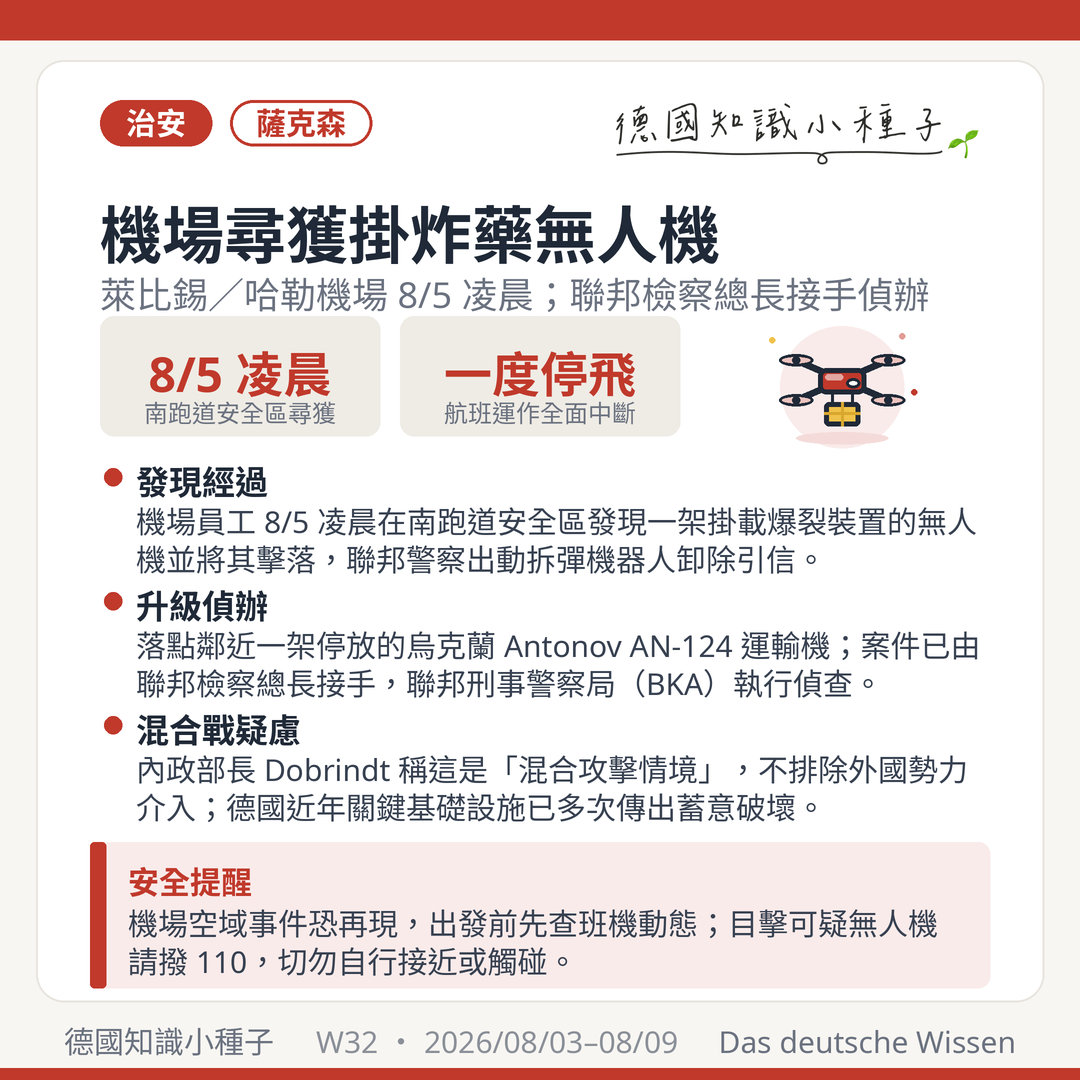
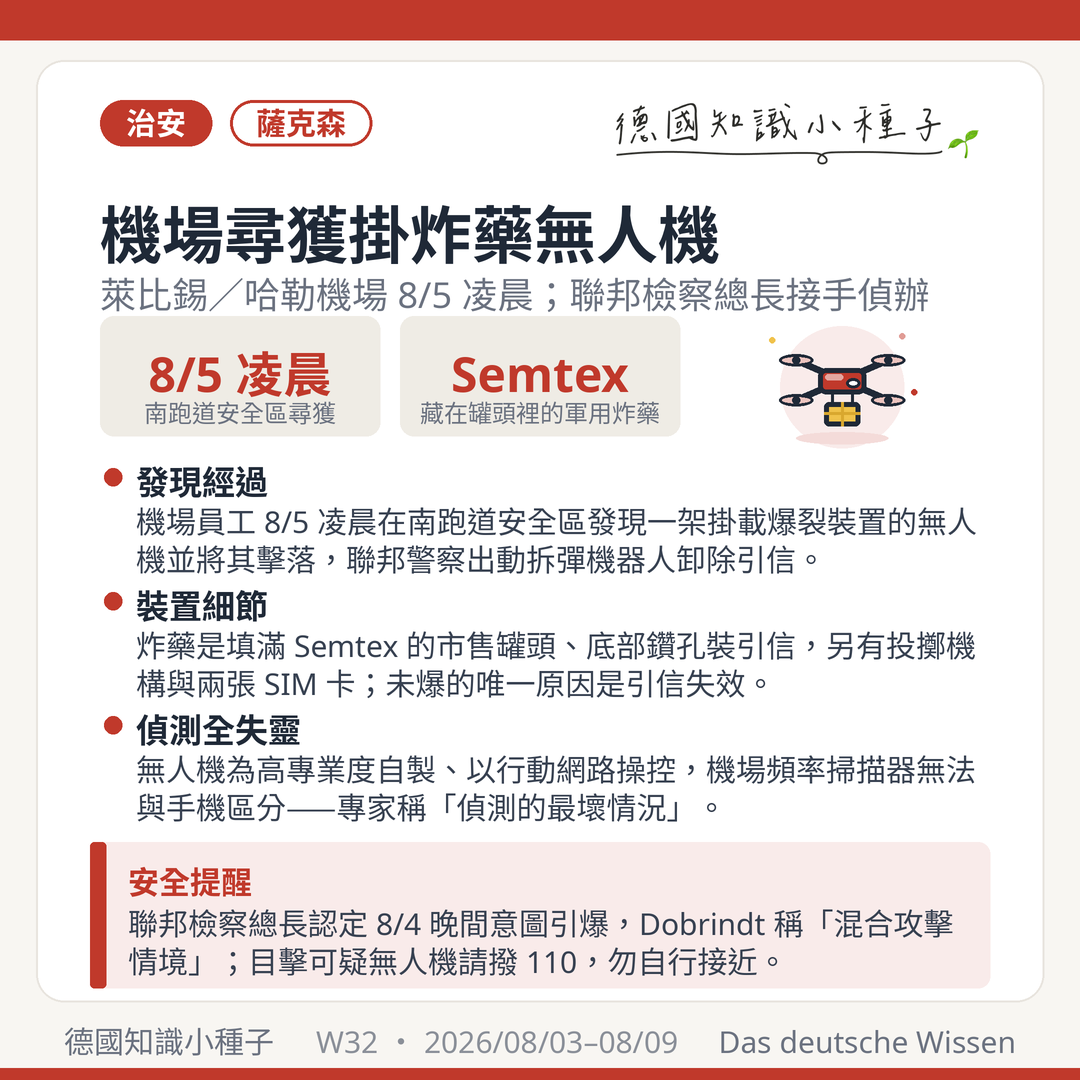
修正 Mecklenburg-Vorpommern 譯名為「梅克倫堡-佛波門」，並更新無人機與萊茵河兩題的最新事證
譯名更正（用戶指正）：
- 「前波美拉尼亞」是中國譯法，台灣譯名為「梅克倫堡-佛波門」（簡稱麥佛邦），
  依 zh-tw 維基與駐德代表處《德國常用地名翻譯對照表》為準
- 已修正圖卡 4、js/data.js、社群稿共 7 處；依指示不溯及既往修改 W30 舊段落
- CLAUDE.md 補記此紅線，避免再犯

新聞更新（本週後續事證）：
- 萊比錫機場無人機：爆裂物為填入軍用炸藥 Semtex 的市售罐頭、罐底鑽孔裝引信，
  未爆的唯一原因是引信失效；機體為高專業度自製、裝投擲機構與兩張 SIM 卡、
  以 LTE 行動網路遠端操控，且採標準偵測系統無法辨識的技術（機場頻率掃描器
  無法與手機區分，專家稱「偵測的最壞情況」）；聯邦檢察總長認定意圖於 8/4 晚間引爆
- 萊茵河：科隆數字更新 67 → 60 公分（8/7 凌晨，週四 63、舊紀錄 66），
  新增杜塞道夫 15 公分、埃默里希連日負值且浮筒乾擱、杜易斯堡同破紀錄——
  自科隆到荷蘭邊境全線改寫紀錄；補上考布 8/3→8/7 的下跌曲線與 1923 年基準測站背景
- 兩題各補 2–3 個新來源；重跑 build.js 與社群稿（IG 1,067 字元、dry-run 通過）

Claude-Session: https://claude.ai/code/session_01Bwoz83KCFjMQ9zDxmrsEQg

Changed region(s): [[0.1222, 0.55, 0.9167, 0.7639], [0.1222, 0.825, 0.8861, 0.9167], [0.3667, 0.3056, 0.6111, 0.3972]]

diff --git a/js/data.js b/js/data.js
@@ -522,7 +522,7 @@ const POSTS = [
     date: '2026-08-09',
     categories: ['德國時事'],
     tags: ['週報', '德國政策', '時事'],
-    excerpt: '萊比錫／哈勒機場 8/5 凌晨驚傳掛載爆裂裝置的無人機：員工在南跑道安全區發現後將其擊落，落點鄰近一架停放的烏克蘭 Antonov AN-124 運輸機，聯邦警察出動拆彈機器人卸除引信、航班一度全面中斷；案件由聯邦檢察總長接手、聯邦刑事警察局（BKA）偵辦，內政部長 Dobrindt 稱之為「混合攻擊情境」，不排除外國勢力介入。萊茵河水位跌破歷史紀錄：萊茵蘭-普法茲（Rheinland-Pfalz）羅蕾萊附近的考布（Kaub）測站僅剩 19 公分（兩週前尚有 50 公分以上），科隆（Köln）8/1 也以 67 公分創站史新低；貨船常只能裝到滿載的五分之一至三分之一，BASF 約四成產品仰賴萊茵河運輸、已加派淺水船，交通部長 Bilger 考慮暫解卡車假日禁行令，德國經濟研究所（IW）估久旱恐吃掉全年成長最多 0.4 個百分點。九月三場邦選舉倒數一個月：薩克森-安哈特（Sachsen-Anhalt）9/6 投票，INSA 民調 AfD 41%、CDU 24%、左翼黨 13%；梅克倫堡-前波美拉尼亞（Mecklenburg-Vorpommern／MV）與柏林 9/20 同日投票，MV 為 AfD 36%、SPD 29%、左翼黨 12%、CDU 僅 9%，柏林則是左翼黨 21%、CDU 19%、AfD 18%、綠黨 17% 的四黨混戰，CDU 由 Evers 接替因停電危機說法不實而退選的 Wegner 領軍。假訊息事件：一段題為「CDU 內部文件：Merz 8/10 辭職」的影片流竄，宣稱引自《商報》（Handelsblatt）取得的黨內通信並嵌入偽造的商報網頁，商報公開聲明手上沒有這份通信、也從未做過相關報導，並指網路上幾乎每天出現總理的假政策倡議。數位法規：EU AI 法第 50 條透明義務 8/2 全面適用，聊天機器人須表明身分、AI 生成內容須帶機器可讀標記、深偽與涉公共利益的 AI 文章須揭露，違者最高罰 1,500 萬歐元或全球年營收 3%；德國錯過歐盟 2025 年 8 月的機關指定期限，《AI 法施行法》遲至 7/29 才生效，由聯邦網路局（BNetzA）擔任中央市場監理機關。氣候與經濟：德國氣象局（DWD）七月均溫 19.7 度、高於 1961–1990 基準 2.8 度，雨量僅約每平方公尺 40 公升、不到基準值六成，乾旱已深入地下 1.8 公尺土層；Prognos 受聯邦勞動部委託的研究估算，每個 30 度以上高溫日讓德國經濟損失 4.31 億歐元、其中 97% 來自生產力下滑，氣溫每超過 30 度再升 1 度生產力就掉約 3%，每個高溫日並增加約 7.65 萬個病假日。經濟數據：Destatis 8/6 公布六月製造業實質訂單月增 3.1%、遠優於市場預期的 0.5%～0.7%，但扣除大額訂單後反而月減 0.5%；機械製造 +12.7%、資通訊與光學產品 +22.7%、汽車 +3.8%，國內訂單月增 7.8% 而國外僅增 0.2%——歐元區訂單大減 14.0%，全靠歐元區以外的 +10.2% 撐住。',
+    excerpt: '萊比錫／哈勒機場 8/5 凌晨驚傳掛載爆裂裝置的無人機：員工在南跑道安全區發現後將其擊落，落點鄰近一架停放的烏克蘭 Antonov AN-124 運輸機，聯邦警察出動拆彈機器人卸除引信、航班一度全面中斷；案件由聯邦檢察總長接手、聯邦刑事警察局（BKA）偵辦，內政部長 Dobrindt 稱之為「混合攻擊情境」，不排除外國勢力介入。本週稍晚披露的細節顯示，爆裂物是填入軍用炸藥 Semtex 的市售罐頭、罐底鑽孔裝引信，未爆的唯一原因是引信失效；無人機為高專業度自製、裝有投擲機構與兩張 SIM 卡、以 LTE 行動網路遠端操控，且採用標準偵測系統無法辨識的技術，機場頻率掃描器無法將其與手機區分，專家形容是「偵測的最壞情況」，聯邦檢察總長認定行為人意圖於 8/4 晚間引發爆炸。萊茵河水位跌破歷史紀錄：萊茵蘭-普法茲（Rheinland-Pfalz）羅蕾萊附近的考布（Kaub）測站僅剩 19 公分（兩週前尚有 50 公分以上），科隆（Köln）8/7 凌晨跌至 60 公分、杜塞道夫（Düsseldorf）15 公分，埃默里希（Emmerich）連日負值、測站浮筒乾擱河床，自科隆到埃默里希全線破紀錄；貨船常只能裝到滿載的五分之一至三分之一，BASF 約四成產品仰賴萊茵河運輸、已加派淺水船，交通部長 Bilger 考慮暫解卡車假日禁行令，德國經濟研究所（IW）估久旱恐吃掉全年成長最多 0.4 個百分點。九月三場邦選舉倒數一個月：薩克森-安哈特（Sachsen-Anhalt）9/6 投票，INSA 民調 AfD 41%、CDU 24%、左翼黨 13%；梅克倫堡-佛波門（Mecklenburg-Vorpommern／MV）與柏林 9/20 同日投票，MV 為 AfD 36%、SPD 29%、左翼黨 12%、CDU 僅 9%，柏林則是左翼黨 21%、CDU 19%、AfD 18%、綠黨 17% 的四黨混戰，CDU 由 Evers 接替因停電危機說法不實而退選的 Wegner 領軍。假訊息事件：一段題為「CDU 內部文件：Merz 8/10 辭職」的影片流竄，宣稱引自《商報》（Handelsblatt）取得的黨內通信並嵌入偽造的商報網頁，商報公開聲明手上沒有這份通信、也從未做過相關報導，並指網路上幾乎每天出現總理的假政策倡議。數位法規：EU AI 法第 50 條透明義務 8/2 全面適用，聊天機器人須表明身分、AI 生成內容須帶機器可讀標記、深偽與涉公共利益的 AI 文章須揭露，違者最高罰 1,500 萬歐元或全球年營收 3%；德國錯過歐盟 2025 年 8 月的機關指定期限，《AI 法施行法》遲至 7/29 才生效，由聯邦網路局（BNetzA）擔任中央市場監理機關。氣候與經濟：德國氣象局（DWD）七月均溫 19.7 度、高於 1961–1990 基準 2.8 度，雨量僅約每平方公尺 40 公升、不到基準值六成，乾旱已深入地下 1.8 公尺土層；Prognos 受聯邦勞動部委託的研究估算，每個 30 度以上高溫日讓德國經濟損失 4.31 億歐元、其中 97% 來自生產力下滑，氣溫每超過 30 度再升 1 度生產力就掉約 3%，每個高溫日並增加約 7.65 萬個病假日。經濟數據：Destatis 8/6 公布六月製造業實質訂單月增 3.1%、遠優於市場預期的 0.5%～0.7%，但扣除大額訂單後反而月減 0.5%；機械製造 +12.7%、資通訊與光學產品 +22.7%、汽車 +3.8%，國內訂單月增 7.8% 而國外僅增 0.2%——歐元區訂單大減 14.0%，全靠歐元區以外的 +10.2% 撐住。',
 
     emoji: '🌱',
     content: `
@@ -555,23 +555,23 @@ const POSTS = [
 
 <img src="assets/images/2026/weekly/W32_圖卡1_機場無人機炸彈.png" alt="萊比錫哈勒機場 8/5 凌晨尋獲掛載爆裂裝置無人機 南跑道 聯邦檢察總長接手 BKA 偵辦 Dobrindt 混合攻擊情境">
 <h3>機場尋獲掛爆裂物無人機：聯邦檢察總長以恐攻等級接手</h3>
-<p><strong>8 月 5 日凌晨，萊比錫／哈勒機場（Flughafen Leipzig/Halle）一名員工在南跑道旁的安全區發現一架掛載爆裂裝置的無人機</strong>，據安全單位消息，該名員工是<strong>以腳將無人機踢落地面</strong>；聯邦警察隨後出動拆彈機器人，由專業人員<strong>卸除引信</strong>。事件期間<strong>機場航班運作一度全面中斷</strong>，薩克森（Sachsen）邦刑事警察局（LKA）於當日中午正式證實「無人機上裝有爆裂裝置」。<strong>最敏感的是落點</strong>：無人機的位置<strong>鄰近一架停放中的烏克蘭 Antonov AN-124 大型運輸機</strong>——萊比錫／哈勒是歐洲重要的空運貨物樞紐，也是對烏軍援與人道物資的重要中轉點。<strong>偵辦層級迅速拉高</strong>：本案因重大性已由<strong>聯邦檢察總長（Generalbundesanwalt）接手</strong>，罪嫌為<strong>引爆爆裂物未遂與危害航空交通安全</strong>，警察偵查工作交由<strong>聯邦刑事警察局（BKA）</strong>執行；薩克森邦總檢察署（德勒斯登／Dresden）的極端主義中央辦公室與 LKA 的反恐與極端主義預防中心先前亦已投入。<strong>官方定性</strong>：內政部長 Dobrindt 將此事描述為<strong>「混合攻擊情境」（hybrides Angriffsszenario）</strong>，並表示不排除有<strong>外國勢力</strong>意圖在德國製造重大不安，這將是偵辦重點之一。所謂「混合攻擊」指的是不採取正面軍事衝突，而是透過破壞、經濟施壓與假訊息等手段製造不確定性——這也讓本週的另一則假影片事件（見下文）顯得不是巧合。<strong>脈絡</strong>：德國近年已多次傳出關鍵基礎設施遭蓄意破壞的案件，柏林軍工廠、巴伐利亞（Bayern）的美軍設施與萊比錫的物流樞紐都曾被列入調查。<strong>對讀者的實質意義</strong>：機場空域安全事件短期內恐再現，出發前先確認班機動態；若在機場、車站或關鍵設施周邊目擊可疑無人機，請直接撥打 110，切勿自行接近或觸碰。</p>
-<p class="post-sources">📚 來源：<a href="https://www.zdfheute.de/panorama/leipzig-flughafen-drohne-zwischenfall-100.html" target="_blank" rel="noopener noreferrer">ZDFheute｜LKA 證實無人機裝有爆裂裝置</a> · <a href="https://www.tagesspiegel.de/gesellschaft/panorama/suche-nach-zweitem-objekt-an-flughafen-leipzighalle-lauft-weiter-mitarbeiter-holte-sprengstoff-drohne-mit-fusstritt-aus-der-luft-15914691.html" target="_blank" rel="noopener noreferrer">Tagesspiegel｜員工以腳踢落無人機、續搜第二個物件</a> · <a href="https://www.t-online.de/nachrichten/deutschland/innenpolitik/id_101376382/leipzig-busfahrer-soll-drohne-mit-fusstritt-gestoppt-haben.html" target="_blank" rel="noopener noreferrer">t-online｜聯邦檢察總長接手、Dobrindt 稱混合攻擊情境</a></p>
+<p><strong>8 月 5 日凌晨，萊比錫／哈勒機場（Flughafen Leipzig/Halle）一名員工在南跑道旁的安全區發現一架掛載爆裂裝置的無人機</strong>，據安全單位消息，該名員工是<strong>以腳將無人機踢落地面</strong>；聯邦警察隨後出動拆彈機器人，由專業人員<strong>卸除引信</strong>。事件期間<strong>機場航班運作一度全面中斷</strong>，薩克森（Sachsen）邦刑事警察局（LKA）於當日中午正式證實「無人機上裝有爆裂裝置」。<strong>最敏感的是落點</strong>：無人機的位置<strong>鄰近一架停放中的烏克蘭 Antonov AN-124 大型運輸機</strong>——萊比錫／哈勒是歐洲重要的空運貨物樞紐，也是對烏軍援與人道物資的重要中轉點。<strong>偵辦層級迅速拉高</strong>：本案因重大性已由<strong>聯邦檢察總長（Generalbundesanwalt）接手</strong>，罪嫌為<strong>引爆爆裂物未遂與危害航空交通安全</strong>，警察偵查工作交由<strong>聯邦刑事警察局（BKA）</strong>執行；薩克森邦總檢察署（德勒斯登／Dresden）的極端主義中央辦公室與 LKA 的反恐與極端主義預防中心先前亦已投入。<strong>官方定性</strong>：內政部長 Dobrindt 將此事描述為<strong>「混合攻擊情境」（hybrides Angriffsszenario）</strong>，並表示不排除有<strong>外國勢力</strong>意圖在德國製造重大不安，這將是偵辦重點之一。所謂「混合攻擊」指的是不採取正面軍事衝突，而是透過破壞、經濟施壓與假訊息等手段製造不確定性——這也讓本週的另一則假影片事件（見下文）顯得不是巧合。<strong>本週稍晚披露的技術細節，讓這起事件的性質更加清楚</strong>：據偵辦方向外說明，<strong>爆裂物是一個市售食品罐頭——內容物被清空後填入軍用塑膠炸藥 Semtex 再重新封罐，罐底鑽孔以裝設引信</strong>；<strong>酬載之所以沒有爆炸，看來只是因為引信失效</strong>。無人機本身<strong>裝有投擲機構與兩張 SIM 卡</strong>，偵查人員正在釐清這兩張卡是否分別用於操控無人機與觸發投擲。更值得注意的是機體本身：<strong>它不是市售產品，而是以高度專業手法自製的無人機</strong>，<strong>透過 LTE 行動網路操控、可從很遠的距離遙控</strong>，並且採用了<strong>現行標準偵測系統無法辨識的技術</strong>——機場的頻率掃描器<strong>無法把這樣一架無人機與一支手機區分開來</strong>，機場既有的偵測系統顯然也沒有觸發。一位無人機專家形容，這是<strong>「偵測的最壞情況」</strong>。聯邦檢察總長辦公室並指出，有足夠的事實證據顯示<strong>行為人意圖在 2026 年 8 月 4 日晚間於萊比錫／哈勒機場引發爆炸</strong>。<strong>脈絡</strong>：德國近年已多次傳出關鍵基礎設施遭蓄意破壞的案件，柏林軍工廠、巴伐利亞（Bayern）的美軍設施與萊比錫的物流樞紐都曾被列入調查。<strong>對讀者的實質意義</strong>：機場空域安全事件短期內恐再現，出發前先確認班機動態；若在機場、車站或關鍵設施周邊目擊可疑無人機，請直接撥打 110，切勿自行接近或觸碰。</p>
+<p class="post-sources">📚 來源：<a href="https://www.zdfheute.de/panorama/leipzig-flughafen-drohne-zwischenfall-100.html" target="_blank" rel="noopener noreferrer">ZDFheute｜LKA 證實無人機裝有爆裂裝置</a> · <a href="https://www.tagesspiegel.de/gesellschaft/panorama/suche-nach-zweitem-objekt-an-flughafen-leipzighalle-lauft-weiter-mitarbeiter-holte-sprengstoff-drohne-mit-fusstritt-aus-der-luft-15914691.html" target="_blank" rel="noopener noreferrer">Tagesspiegel｜員工以腳踢落無人機、續搜第二個物件</a> · <a href="https://www.t-online.de/nachrichten/deutschland/innenpolitik/id_101376382/leipzig-busfahrer-soll-drohne-mit-fusstritt-gestoppt-haben.html" target="_blank" rel="noopener noreferrer">t-online｜聯邦檢察總長接手、Dobrindt 稱混合攻擊情境</a> · <a href="https://www.t-online.de/nachrichten/deutschland/id_101378890/flughafen-leipzig-halle-neue-details-zur-technik-der-sprengstoff-drohne.html" target="_blank" rel="noopener noreferrer">t-online｜炸藥無人機的技術細節</a> · <a href="https://de.euronews.com/my-europe/2026/08/07/sprengstoff-in-konservendose-neue-details-zum-drohnen-vorfall-in-leipzig" target="_blank" rel="noopener noreferrer">Euronews｜罐頭裝 Semtex 的新細節</a></p>
 
 <img src="assets/images/2026/weekly/W32_圖卡2_萊茵河水位新低.png" alt="萊茵河考布 Kaub 水位 19 公分 破紀錄新低 科隆 67 公分 內河航運 BASF 化工 IW 成長減損 0.4 個百分點">
 <h3>熱浪曬乾萊茵河：水位跌破歷史新低，航運剩五分之一載重</h3>
-<p><strong>先講因果：河水不是自己消失的。</strong>德國氣象局（DWD）7 月 30 日發布的月度總結顯示，<strong>2026 年七月全國均溫 19.7 度，比 1961–1990 年的國際基準期高出 2.8 度</strong>，且是<strong>連續第五個月日照時數高於平均</strong>（約 272 小時）。真正的關鍵在雨——<strong>七月全國降水僅約每平方公尺 40 公升，只比基準期（78 公升）的一半多一些</strong>；若對照更近期也更濕潤的 1991–2020 年基準（87 公升），缺口更為懸殊。溫度、降水與日照都呈現明顯的「西南－東北」梯度，西南部特別炎熱、乾燥且日照充足，<strong>薩爾蘭（Saarland）以約 350 小時日照創下當地有紀錄以來新高</strong>。長期少雨的結果是土壤含水量被抽乾——<strong>到七月初，乾旱已擴及幾乎全德、且深入地下 1.8 公尺的整個土壤剖面</strong>，這代表就算現在下雨，也得先「還債」給土壤，河川補水會嚴重滯後。DWD 在七月的總結中已明白記錄：<strong>萊茵河與多瑙河的水位測站出現七月份的歷史低點</strong>。八月的情況只有更糟。<strong>位於萊茵蘭-普法茲（Rheinland-Pfalz）羅蕾萊（Loreley）附近的考布（Kaub）測站，水位一路跌到僅剩 19 公分</strong>——本週稍早的 24 公分就已<strong>比 2018 年 10 月 22 日開始統計以來的最低紀錄再低 1 公分</strong>，而<strong>兩週前這裡的水位還在 50 公分以上</strong>，惡化速度驚人；聯邦水道管理機關的預報甚至指向<strong>週六可能再降到 17 公分</strong>。同一時間，<strong>科隆（Köln）8 月 1 日以 67 公分刷新站史新低，比 2018 年的紀錄低 2 公分</strong>。<strong>為什麼考布特別關鍵</strong>：該處是萊茵河的狹窄瓶頸段，水深直接決定整條航道的可通行載重；萊茵蘭-普法茲工商會（IHK）指出，<strong>水位低於 40 公分時「有意義的內河航運幾乎不可能」</strong>。目前<strong>貨船常常只能裝到滿載的五分之一至三分之一</strong>，等於同樣的運量要多跑好幾趟，物流成本大幅墊高。<strong>誰最痛</strong>：化工業。石腦油（Naphtha）、基礎化學品與工業原料大量倚賴河運直送廠區，<strong>BASF、Evonik、Covestro 的主力廠都直接坐落在萊茵河畔</strong>；以 BASF 為例，<strong>約四成產品透過這條水路進出</strong>，公司已加派吃水較淺的低水位船因應，Lanxess 則把部分運輸轉向鐵路與公路。<strong>政府端的應對</strong>：交通部長 Bilger 正考慮<strong>暫時鬆綁卡車的週日與假日禁行令</strong>，把水路的量能挪到公路以緩解供應缺口。<strong>總體衝擊有多大</strong>：德國經濟研究所（IW）經濟學家形容情勢「dramatisch（嚴峻）」，並估算<strong>萊茵河若長時間受限，恐讓全年經濟成長減少最多 0.4 個百分點</strong>——這幾乎會吃掉市場目前預期的整個復甦幅度（對照上週 Commerzbank 才把 2026 全年成長預測自 0.6% 上調至 1.0%）。<strong>對在德讀者的實質意義</strong>：河運吃緊會沿著供應鏈往下傳導，<strong>燃油、建材與部分民生用品的運費看漲</strong>；若近期有加油、囤暖氣油或裝修採購的規劃，提前處理比等待降價務實。此外持續乾旱也讓部分地方政府開始限制取水與戶外用水，外出郊遊請留意各邦的森林火災警戒等級。</p>
-<p class="post-sources">📚 來源：<a href="https://www.dwd.de/DE/presse/pressemitteilungen/DE/2026/20260730_deutschlandwetter_juli_news.html" target="_blank" rel="noopener noreferrer">DWD｜2026 年七月德國天氣總結</a> · <a href="https://www.nr-kurier.de/artikel/174108-rhein-verliert-wasser---pegel-kaub-meldet-nur-19-zentimeter" target="_blank" rel="noopener noreferrer">NR-Kurier｜考布水位僅 19 公分</a> · <a href="https://de.marketscreener.com/boerse-nachrichten/rhein-pegel-bei-kaub-auf-rekordtief-von-24-zentimetern-ce7f50dedb8af22c" target="_blank" rel="noopener noreferrer">MarketScreener｜考布跌破 2018 年紀錄</a> · <a href="https://www.wiwo.de/unternehmen/folgen-fuer-die-wirtschaft-niedrigwasser-am-rhein-iw-oekonom-haelt-lage-fuer-dramatisch/100245401.html" target="_blank" rel="noopener noreferrer">WirtschaftsWoche｜IW 經濟學家：情勢嚴峻，成長恐減 0.4 個百分點</a> · <a href="https://www.k-zeitung.de/niedrigwasser-deutschland-chemie-kunststoffindustrie" target="_blank" rel="noopener noreferrer">K-Zeitung｜低水位成化工與塑膠業風險</a></p>
+<p><strong>先講因果：河水不是自己消失的。</strong>德國氣象局（DWD）7 月 30 日發布的月度總結顯示，<strong>2026 年七月全國均溫 19.7 度，比 1961–1990 年的國際基準期高出 2.8 度</strong>，且是<strong>連續第五個月日照時數高於平均</strong>（約 272 小時）。真正的關鍵在雨——<strong>七月全國降水僅約每平方公尺 40 公升，只比基準期（78 公升）的一半多一些</strong>；若對照更近期也更濕潤的 1991–2020 年基準（87 公升），缺口更為懸殊。溫度、降水與日照都呈現明顯的「西南－東北」梯度，西南部特別炎熱、乾燥且日照充足，<strong>薩爾蘭（Saarland）以約 350 小時日照創下當地有紀錄以來新高</strong>。長期少雨的結果是土壤含水量被抽乾——<strong>到七月初，乾旱已擴及幾乎全德、且深入地下 1.8 公尺的整個土壤剖面</strong>，這代表就算現在下雨，也得先「還債」給土壤，河川補水會嚴重滯後。DWD 在七月的總結中已明白記錄：<strong>萊茵河與多瑙河的水位測站出現七月份的歷史低點</strong>。八月的情況只有更糟。<strong>位於萊茵蘭-普法茲（Rheinland-Pfalz）羅蕾萊（Loreley）附近的考布（Kaub）測站，水位在週五（8/7）跌到僅剩 19 公分</strong>——甚至低於聯邦水道管理機關前一日預報的 18 公分。這條下跌曲線相當陡：<strong>週一（8/3）的 24 公分就已比 2018 年 10 月 22 日開始統計以來的最低紀錄再低 1 公分</strong>，週二（8/4）單日低點來到 21 公分，而<strong>兩週前這裡的水位還在 50 公分以上</strong>；預報指向<strong>週六可能再降到約 17 公分</strong>。考布自 1923 年起就是萊茵河流量的基準測站。同一時間，<strong>下游災情同樣改寫紀錄</strong>：科隆（Köln）在本週稍早先跌破 66 公分的舊紀錄，週四（8/6）測得 63 公分，<strong>週五（8/7）凌晨再降至 60 公分</strong>；杜塞道夫（Düsseldorf）跌到 <strong>15 公分</strong>、遠低於數日前才創下的 20 公分紀錄；<strong>埃默里希（Emmerich）的水位已連日處於負值，測站浮筒乾擱在河床上、只能靠探針取得數據</strong>，杜易斯堡（Duisburg）與埃默里希雙雙低於歷史紀錄——換句話說，<strong>從科隆一路到荷蘭邊境的埃默里希，整段下萊茵河都在破紀錄</strong>。<strong>為什麼考布特別關鍵</strong>：該處是萊茵河的狹窄瓶頸段，水深直接決定整條航道的可通行載重；萊茵蘭-普法茲工商會（IHK）指出，<strong>水位低於 40 公分時「有意義的內河航運幾乎不可能」</strong>。目前<strong>貨船常常只能裝到滿載的五分之一至三分之一</strong>，等於同樣的運量要多跑好幾趟，物流成本大幅墊高。<strong>誰最痛</strong>：化工業。石腦油（Naphtha）、基礎化學品與工業原料大量倚賴河運直送廠區，<strong>BASF、Evonik、Covestro 的主力廠都直接坐落在萊茵河畔</strong>；以 BASF 為例，<strong>約四成產品透過這條水路進出</strong>，公司已加派吃水較淺的低水位船因應，Lanxess 則把部分運輸轉向鐵路與公路。<strong>政府端的應對</strong>：交通部長 Bilger 正考慮<strong>暫時鬆綁卡車的週日與假日禁行令</strong>，把水路的量能挪到公路以緩解供應缺口。<strong>總體衝擊有多大</strong>：德國經濟研究所（IW）經濟學家形容情勢「dramatisch（嚴峻）」，並估算<strong>萊茵河若長時間受限，恐讓全年經濟成長減少最多 0.4 個百分點</strong>——這幾乎會吃掉市場目前預期的整個復甦幅度（對照上週 Commerzbank 才把 2026 全年成長預測自 0.6% 上調至 1.0%）。<strong>對在德讀者的實質意義</strong>：河運吃緊會沿著供應鏈往下傳導，<strong>燃油、建材與部分民生用品的運費看漲</strong>；若近期有加油、囤暖氣油或裝修採購的規劃，提前處理比等待降價務實。此外持續乾旱也讓部分地方政府開始限制取水與戶外用水，外出郊遊請留意各邦的森林火災警戒等級。</p>
+<p class="post-sources">📚 來源：<a href="https://www.dwd.de/DE/presse/pressemitteilungen/DE/2026/20260730_deutschlandwetter_juli_news.html" target="_blank" rel="noopener noreferrer">DWD｜2026 年七月德國天氣總結</a> · <a href="https://www.nr-kurier.de/artikel/174108-rhein-verliert-wasser---pegel-kaub-meldet-nur-19-zentimeter" target="_blank" rel="noopener noreferrer">NR-Kurier｜考布水位僅 19 公分</a> · <a href="https://de.marketscreener.com/boerse-nachrichten/rhein-pegel-bei-kaub-auf-rekordtief-von-24-zentimetern-ce7f50dedb8af22c" target="_blank" rel="noopener noreferrer">MarketScreener｜考布跌破 2018 年紀錄</a> · <a href="https://www.wiwo.de/unternehmen/folgen-fuer-die-wirtschaft-niedrigwasser-am-rhein-iw-oekonom-haelt-lage-fuer-dramatisch/100245401.html" target="_blank" rel="noopener noreferrer">WirtschaftsWoche｜IW 經濟學家：情勢嚴峻，成長恐減 0.4 個百分點</a> · <a href="https://www.k-zeitung.de/niedrigwasser-deutschland-chemie-kunststoffindustrie" target="_blank" rel="noopener noreferrer">K-Zeitung｜低水位成化工與塑膠業風險</a> · <a href="https://koeln.t-online.de/region/koeln/id_101378406/rhein-pegel-am-freitag-rekordtief-bei-koeln-viel-niedriger-als-prognose.html" target="_blank" rel="noopener noreferrer">t-online 科隆｜8/7 科隆水位跌至 60 公分</a> · <a href="https://www.daswetter.com/nachrichten/aktuelles/rhein-niedrigwasser-rekordtiefs-von-koeln-bis-emmerich.html" target="_blank" rel="noopener noreferrer">daswetter｜科隆到埃默里希全線破紀錄</a></p>
 
 <img src="assets/images/2026/weekly/W32_圖卡3_高溫經濟衝擊.png" alt="高溫經濟衝擊 每個高溫日 4.31 億歐元 生產力下降 3% 每度 7.65 萬病假日 ASR A3.5 職場溫度規範">
 <h3>高溫的經濟帳：每個高溫日 4.31 億歐元，97% 來自生產力下滑</h3>
 <p>熱浪的代價不只寫在河床上。<strong>聯邦勞動及社會部（BMAS）委託研究機構 Prognos 進行的「氣候變遷下的勞動保護」研究</strong>，把「熱」換算成了具體的金額：<strong>一個氣溫達 30 度以上的高溫日，就讓德國經濟少掉約 4.31 億歐元</strong>，而且<strong>這些成本有 97% 來自生產力損失</strong>，而非設備或財產損害。<strong>降幅有多陡</strong>：研究指出<strong>氣溫每超過 30 度再上升 1 度，生產力就下降約 3%</strong>——這個斜率意味著 35 度的一天，效率折損遠不是「有點熱、大家慢一點」可以形容。<strong>健康成本另計</strong>：因中暑等熱相關疾病與高溫下的工安事故，<strong>每個高溫日估計額外產生約 7.65 萬個病假日</strong>。<strong>把時間拉長看</strong>：信用保險公司 Allianz Trade 的分析估計，<strong>2026 至 2030 年間德國因極端高溫累積的經濟損失可達約 1,310 億美元</strong>，未來四年 GDP 的折損幅度<strong>上看 3%</strong>。<strong>為什麼工業特別痛</strong>：高溫對製造業是「兩頭夾擊」——一頭是產線本身，車間降溫需求推升電力與冷卻成本、機具與人員效率同步下滑；另一頭正是上一則講的乾旱，河運受阻讓原料進不來、成品出不去。<strong>換句話說，本週萊茵河的新聞與工業訂單的新聞，其實是同一個氣候問題的兩個切面。</strong>對照本週稍早公布、扣除大單後轉負的六月訂單數據，德國工業今年面對的並不只是需求端的疲弱。<strong>勞權面：德國沒有法定「高溫假」</strong>——這是每年夏天最常被誤解的一點。德國法律並未賦予勞工因高溫而放假的權利，<strong>但雇主有明確的作為義務</strong>：依《職場規則》ASR A3.5，<strong>室溫超過 26 度時雇主「應」採取措施、超過 30 度時「必須」採取有效措施（如遮陽、調整工時、提供飲水、放寬服裝規定）、超過 35 度時該空間在無額外降溫措施下即「不得作為工作場所」</strong>。在德工作的讀者若辦公或作業環境長時間逾 30 度而雇主毫無作為，可先向主管或員工代表會（Betriebsrat）反映，必要時可向邦級勞動保護主管機關（Gewerbeaufsicht／Amt für Arbeitsschutz）申訴。</p>
 <p class="post-sources">📚 來源：<a href="https://www.dwd.de/DE/presse/pressemitteilungen/DE/2026/20260730_deutschlandwetter_juli_news.html" target="_blank" rel="noopener noreferrer">DWD｜2026 年七月德國天氣總結</a> · <a href="https://www.prognos.com/de/projekt/arbeitsschutz-klimawandel-hitze-wirtschaft" target="_blank" rel="noopener noreferrer">Prognos｜氣候變遷下的勞動保護（BMAS 委託）</a> · <a href="https://www.cleanthinking.de/hitzekosten-arbeit-prognos-studie-2026/" target="_blank" rel="noopener noreferrer">Cleanthinking｜高溫成本每日 4.31 億歐元</a> · <a href="https://www.allianz-trade.de/presse/pressemitteilungen/extreme-hitze-kostet-deutschland-milliarden-und-laehmt-wirtschaftswachstum.html" target="_blank" rel="noopener noreferrer">Allianz Trade｜極端高溫的數十億損失</a> · <a href="https://www.zdfheute.de/wirtschaft/hitzewelle-hitze-deutschland-wirtschaft-folgen-100.html" target="_blank" rel="noopener noreferrer">ZDFheute｜熱浪為何讓企業損失數十億</a> · <a href="https://www.baua.de/DE/Angebote/Regelwerk/ASR/pdf/ASR-A3-5.pdf?__blob=publicationFile" target="_blank" rel="noopener noreferrer">BAuA｜ASR A3.5 室內溫度規則（PDF）</a></p>
 
-<img src="assets/images/2026/weekly/W32_圖卡4_九月三場邦選舉.png" alt="2026 九月三場邦選舉 薩克森-安哈特 9/6 AfD 41% 柏林 梅克倫堡-前波美拉尼亞 9/20 民調 防火牆">
+<img src="assets/images/2026/weekly/W32_圖卡4_九月三場邦選舉.png" alt="2026 九月三場邦選舉 薩克森-安哈特 9/6 AfD 41% 柏林 梅克倫堡-佛波門 9/20 民調 防火牆">
 <h3>九月三場邦選舉倒數一個月：AfD 在東部大幅領先，柏林四黨混戰</h3>
-<p>距離九月的邦議會選舉剩下約一個月，三場選舉的態勢已相當清楚。<strong>薩克森-安哈特（Sachsen-Anhalt）9 月 6 日投票</strong>，是三場中最早、也是差距最懸殊的一場：INSA 為《Focus Online》所做的民調顯示，<strong>AfD 在頭號候選人 Ulrich Siegmund 帶領下拿到 41%、CDU 24%、左翼黨 13%、SPD 7%、綠黨 5%、BSW 4%</strong>，AfD 領先幅度<strong>超過 15 個百分點</strong>。值得一提的是，該邦執政 15 年的 CDU 籍邦總理 Reiner Haseloff 已於 2025 年夏天宣布不再參選，<strong>今年 1 月底提前交棒給黨內同志 Sven Schulze</strong>，Schulze 以 91% 的高票獲提名為頭號候選人，如今得在民調逆風中捍衛執政權。<strong>梅克倫堡-前波美拉尼亞（Mecklenburg-Vorpommern／MV）與柏林同於 9 月 20 日投票</strong>。MV 方面，Infratest dimap 為 NDR 所做的民調中<strong>AfD 36%、SPD（現任邦總理 Manuela Schwesig）29%、左翼黨 12%、CDU 僅 9%、綠黨 5% 在門檻邊緣掙扎</strong>；不過關鍵在席次算術——<strong>SPD、左翼黨與綠黨三黨若聯手，仍可能在新議會取得極其微弱的過半</strong>，也就是說 AfD 即使拿下第一大黨，未必能組閣。<strong>柏林則是完全開放的四黨混戰</strong>：Civey 為《Tagesspiegel》所做的最新民調顯示<strong>左翼黨 21%（較 7 月初再增 2 個百分點）、CDU 19%、AfD 18%（+1）、綠黨 17%、SPD 12%（-1）</strong>，FDP 與 BSW 各 3%、雙雙落在議會門檻之外。<strong>柏林 CDU 換將</strong>：現任市長 Kai Wegner 在今年 1 月柏林大停電期間，對外造成「曾多次與總理 Merz 通話」的印象，但總理府事後說明<strong>停電期間 Merz 並未與 Wegner 進行過任何當面或電話的個人談話</strong>，Wegner 因此以「柏林比任何個人都重要」為由退出頭號候選人之爭，改由現年 46 歲、4 月起出任財政參議員的 <strong>Stefan Evers</strong> 領軍並接任市黨部主席——但從民調看，<strong>換將並未替 CDU 帶來反彈，該黨仍停在 19%</strong>。<strong>觀察重點</strong>：這三場選舉將是對聯盟黨（CDU/CSU）與 AfD 之間「防火牆」（Brandmauer）最直接的壓力測試；一旦 AfD 在東部拿下第一大黨而各黨仍拒絕合作，組閣談判勢必冗長，也會回頭牽動 Merz 政府在秋季的施政能量與黨內對其領導的評價。</p>
-<p class="post-sources">📚 來源：<a href="https://de.euronews.com/my-europe/2026/08/06/landtagswahlen-2026-umfragen-afd-themen-ueberblick" target="_blank" rel="noopener noreferrer">Euronews｜三場邦選舉一個月前的總覽</a> · <a href="https://www.t-online.de/nachrichten/deutschland/innenpolitik/id_101371622/sachsen-anhalt-wahl-2026-wahlumfrage-zeigt-einen-trend-parteien-zittern.html" target="_blank" rel="noopener noreferrer">t-online｜薩克森-安哈特 INSA 民調</a> · <a href="https://www.t-online.de/nachrichten/deutschland/innenpolitik/id_101372134/mv-wahl-2026-wahlumfrage-zeigt-einen-klaren-trend-schwesigs-spd-bangt.html" target="_blank" rel="noopener noreferrer">t-online｜梅克倫堡-前波美拉尼亞民調</a> · <a href="https://www.tagesspiegel.de/berlin/umfrage-zur-berlin-wahl-linke-springt-auf-platz-eins--wegner-ruckzug-nutzt-cdu-nicht-15913067.html" target="_blank" rel="noopener noreferrer">Tagesspiegel｜柏林民調：左翼黨躍居第一</a> · <a href="https://www.cdulsa.de/artikel/sven-schulze-zum-spitzenkandidaten-der-cdu-sachsen-anhalt-gewaehlt" target="_blank" rel="noopener noreferrer">CDU Sachsen-Anhalt｜Schulze 獲選頭號候選人</a></p>
+<p>距離九月的邦議會選舉剩下約一個月，三場選舉的態勢已相當清楚。<strong>薩克森-安哈特（Sachsen-Anhalt）9 月 6 日投票</strong>，是三場中最早、也是差距最懸殊的一場：INSA 為《Focus Online》所做的民調顯示，<strong>AfD 在頭號候選人 Ulrich Siegmund 帶領下拿到 41%、CDU 24%、左翼黨 13%、SPD 7%、綠黨 5%、BSW 4%</strong>，AfD 領先幅度<strong>超過 15 個百分點</strong>。值得一提的是，該邦執政 15 年的 CDU 籍邦總理 Reiner Haseloff 已於 2025 年夏天宣布不再參選，<strong>今年 1 月底提前交棒給黨內同志 Sven Schulze</strong>，Schulze 以 91% 的高票獲提名為頭號候選人，如今得在民調逆風中捍衛執政權。<strong>梅克倫堡-佛波門（Mecklenburg-Vorpommern／MV）與柏林同於 9 月 20 日投票</strong>。MV 方面，Infratest dimap 為 NDR 所做的民調中<strong>AfD 36%、SPD（現任邦總理 Manuela Schwesig）29%、左翼黨 12%、CDU 僅 9%、綠黨 5% 在門檻邊緣掙扎</strong>；不過關鍵在席次算術——<strong>SPD、左翼黨與綠黨三黨若聯手，仍可能在新議會取得極其微弱的過半</strong>，也就是說 AfD 即使拿下第一大黨，未必能組閣。<strong>柏林則是完全開放的四黨混戰</strong>：Civey 為《Tagesspiegel》所做的最新民調顯示<strong>左翼黨 21%（較 7 月初再增 2 個百分點）、CDU 19%、AfD 18%（+1）、綠黨 17%、SPD 12%（-1）</strong>，FDP 與 BSW 各 3%、雙雙落在議會門檻之外。<strong>柏林 CDU 換將</strong>：現任市長 Kai Wegner 在今年 1 月柏林大停電期間，對外造成「曾多次與總理 Merz 通話」的印象，但總理府事後說明<strong>停電期間 Merz 並未與 Wegner 進行過任何當面或電話的個人談話</strong>，Wegner 因此以「柏林比任何個人都重要」為由退出頭號候選人之爭，改由現年 46 歲、4 月起出任財政參議員的 <strong>Stefan Evers</strong> 領軍並接任市黨部主席——但從民調看，<strong>換將並未替 CDU 帶來反彈，該黨仍停在 19%</strong>。<strong>觀察重點</strong>：這三場選舉將是對聯盟黨（CDU/CSU）與 AfD 之間「防火牆」（Brandmauer）最直接的壓力測試；一旦 AfD 在東部拿下第一大黨而各黨仍拒絕合作，組閣談判勢必冗長，也會回頭牽動 Merz 政府在秋季的施政能量與黨內對其領導的評價。</p>
+<p class="post-sources">📚 來源：<a href="https://de.euronews.com/my-europe/2026/08/06/landtagswahlen-2026-umfragen-afd-themen-ueberblick" target="_blank" rel="noopener noreferrer">Euronews｜三場邦選舉一個月前的總覽</a> · <a href="https://www.t-online.de/nachrichten/deutschland/innenpolitik/id_101371622/sachsen-anhalt-wahl-2026-wahlumfrage-zeigt-einen-trend-parteien-zittern.html" target="_blank" rel="noopener noreferrer">t-online｜薩克森-安哈特 INSA 民調</a> · <a href="https://www.t-online.de/nachrichten/deutschland/innenpolitik/id_101372134/mv-wahl-2026-wahlumfrage-zeigt-einen-klaren-trend-schwesigs-spd-bangt.html" target="_blank" rel="noopener noreferrer">t-online｜梅克倫堡-佛波門民調</a> · <a href="https://www.tagesspiegel.de/berlin/umfrage-zur-berlin-wahl-linke-springt-auf-platz-eins--wegner-ruckzug-nutzt-cdu-nicht-15913067.html" target="_blank" rel="noopener noreferrer">Tagesspiegel｜柏林民調：左翼黨躍居第一</a> · <a href="https://www.cdulsa.de/artikel/sven-schulze-zum-spitzenkandidaten-der-cdu-sachsen-anhalt-gewaehlt" target="_blank" rel="noopener noreferrer">CDU Sachsen-Anhalt｜Schulze 獲選頭號候選人</a></p>
 
 <img src="assets/images/2026/weekly/W32_圖卡5_假Merz辭職影片.png" alt="假 Merz 8/10 辭職影片 深偽 假訊息 商報 Handelsblatt 出面澄清 偽造網頁 EU AI 標示義務">
 <h3>假「Merz 8/10 辭職」影片流竄：《商報》出面打假</h3>

diff --git a/posts/weekly-digest.html b/posts/weekly-digest.html
@@ -133,7 +133,7 @@
     <div class="post-header__meta">
       <span>2026年8月9日 發布</span>
       <span class="post-header__sep">·</span>
-      <span>188 分鐘閱讀</span>
+      <span>190 分鐘閱讀</span>
     </div>
     <hr class="post-header__divider" />
   </header>
@@ -166,23 +166,23 @@
 
 <img src="/assets/images/2026/weekly/W32_圖卡1_機場無人機炸彈.png" alt="萊比錫哈勒機場 8/5 凌晨尋獲掛載爆裂裝置無人機 南跑道 聯邦檢察總長接手 BKA 偵辦 Dobrindt 混合攻擊情境">
 <h3>機場尋獲掛爆裂物無人機：聯邦檢察總長以恐攻等級接手</h3>
-<p><strong>8 月 5 日凌晨，萊比錫／哈勒機場（Flughafen Leipzig/Halle）一名員工在南跑道旁的安全區發現一架掛載爆裂裝置的無人機</strong>，據安全單位消息，該名員工是<strong>以腳將無人機踢落地面</strong>；聯邦警察隨後出動拆彈機器人，由專業人員<strong>卸除引信</strong>。事件期間<strong>機場航班運作一度全面中斷</strong>，薩克森（Sachsen）邦刑事警察局（LKA）於當日中午正式證實「無人機上裝有爆裂裝置」。<strong>最敏感的是落點</strong>：無人機的位置<strong>鄰近一架停放中的烏克蘭 Antonov AN-124 大型運輸機</strong>——萊比錫／哈勒是歐洲重要的空運貨物樞紐，也是對烏軍援與人道物資的重要中轉點。<strong>偵辦層級迅速拉高</strong>：本案因重大性已由<strong>聯邦檢察總長（Generalbundesanwalt）接手</strong>，罪嫌為<strong>引爆爆裂物未遂與危害航空交通安全</strong>，警察偵查工作交由<strong>聯邦刑事警察局（BKA）</strong>執行；薩克森邦總檢察署（德勒斯登／Dresden）的極端主義中央辦公室與 LKA 的反恐與極端主義預防中心先前亦已投入。<strong>官方定性</strong>：內政部長 Dobrindt 將此事描述為<strong>「混合攻擊情境」（hybrides Angriffsszenario）</strong>，並表示不排除有<strong>外國勢力</strong>意圖在德國製造重大不安，這將是偵辦重點之一。所謂「混合攻擊」指的是不採取正面軍事衝突，而是透過破壞、經濟施壓與假訊息等手段製造不確定性——這也讓本週的另一則假影片事件（見下文）顯得不是巧合。<strong>脈絡</strong>：德國近年已多次傳出關鍵基礎設施遭蓄意破壞的案件，柏林軍工廠、巴伐利亞（Bayern）的美軍設施與萊比錫的物流樞紐都曾被列入調查。<strong>對讀者的實質意義</strong>：機場空域安全事件短期內恐再現，出發前先確認班機動態；若在機場、車站或關鍵設施周邊目擊可疑無人機，請直接撥打 110，切勿自行接近或觸碰。</p>
-<p class="post-sources">📚 來源：<a href="https://www.zdfheute.de/panorama/leipzig-flughafen-drohne-zwischenfall-100.html" target="_blank" rel="noopener noreferrer">ZDFheute｜LKA 證實無人機裝有爆裂裝置</a> · <a href="https://www.tagesspiegel.de/gesellschaft/panorama/suche-nach-zweitem-objekt-an-flughafen-leipzighalle-lauft-weiter-mitarbeiter-holte-sprengstoff-drohne-mit-fusstritt-aus-der-luft-15914691.html" target="_blank" rel="noopener noreferrer">Tagesspiegel｜員工以腳踢落無人機、續搜第二個物件</a> · <a href="https://www.t-online.de/nachrichten/deutschland/innenpolitik/id_101376382/leipzig-busfahrer-soll-drohne-mit-fusstritt-gestoppt-haben.html" target="_blank" rel="noopener noreferrer">t-online｜聯邦檢察總長接手、Dobrindt 稱混合攻擊情境</a></p>
+<p><strong>8 月 5 日凌晨，萊比錫／哈勒機場（Flughafen Leipzig/Halle）一名員工在南跑道旁的安全區發現一架掛載爆裂裝置的無人機</strong>，據安全單位消息，該名員工是<strong>以腳將無人機踢落地面</strong>；聯邦警察隨後出動拆彈機器人，由專業人員<strong>卸除引信</strong>。事件期間<strong>機場航班運作一度全面中斷</strong>，薩克森（Sachsen）邦刑事警察局（LKA）於當日中午正式證實「無人機上裝有爆裂裝置」。<strong>最敏感的是落點</strong>：無人機的位置<strong>鄰近一架停放中的烏克蘭 Antonov AN-124 大型運輸機</strong>——萊比錫／哈勒是歐洲重要的空運貨物樞紐，也是對烏軍援與人道物資的重要中轉點。<strong>偵辦層級迅速拉高</strong>：本案因重大性已由<strong>聯邦檢察總長（Generalbundesanwalt）接手</strong>，罪嫌為<strong>引爆爆裂物未遂與危害航空交通安全</strong>，警察偵查工作交由<strong>聯邦刑事警察局（BKA）</strong>執行；薩克森邦總檢察署（德勒斯登／Dresden）的極端主義中央辦公室與 LKA 的反恐與極端主義預防中心先前亦已投入。<strong>官方定性</strong>：內政部長 Dobrindt 將此事描述為<strong>「混合攻擊情境」（hybrides Angriffsszenario）</strong>，並表示不排除有<strong>外國勢力</strong>意圖在德國製造重大不安，這將是偵辦重點之一。所謂「混合攻擊」指的是不採取正面軍事衝突，而是透過破壞、經濟施壓與假訊息等手段製造不確定性——這也讓本週的另一則假影片事件（見下文）顯得不是巧合。<strong>本週稍晚披露的技術細節，讓這起事件的性質更加清楚</strong>：據偵辦方向外說明，<strong>爆裂物是一個市售食品罐頭——內容物被清空後填入軍用塑膠炸藥 Semtex 再重新封罐，罐底鑽孔以裝設引信</strong>；<strong>酬載之所以沒有爆炸，看來只是因為引信失效</strong>。無人機本身<strong>裝有投擲機構與兩張 SIM 卡</strong>，偵查人員正在釐清這兩張卡是否分別用於操控無人機與觸發投擲。更值得注意的是機體本身：<strong>它不是市售產品，而是以高度專業手法自製的無人機</strong>，<strong>透過 LTE 行動網路操控、可從很遠的距離遙控</strong>，並且採用了<strong>現行標準偵測系統無法辨識的技術</strong>——機場的頻率掃描器<strong>無法把這樣一架無人機與一支手機區分開來</strong>，機場既有的偵測系統顯然也沒有觸發。一位無人機專家形容，這是<strong>「偵測的最壞情況」</strong>。聯邦檢察總長辦公室並指出，有足夠的事實證據顯示<strong>行為人意圖在 2026 年 8 月 4 日晚間於萊比錫／哈勒機場引發爆炸</strong>。<strong>脈絡</strong>：德國近年已多次傳出關鍵基礎設施遭蓄意破壞的案件，柏林軍工廠、巴伐利亞（Bayern）的美軍設施與萊比錫的物流樞紐都曾被列入調查。<strong>對讀者的實質意義</strong>：機場空域安全事件短期內恐再現，出發前先確認班機動態；若在機場、車站或關鍵設施周邊目擊可疑無人機，請直接撥打 110，切勿自行接近或觸碰。</p>
+<p class="post-sources">📚 來源：<a href="https://www.zdfheute.de/panorama/leipzig-flughafen-drohne-zwischenfall-100.html" target="_blank" rel="noopener noreferrer">ZDFheute｜LKA 證實無人機裝有爆裂裝置</a> · <a href="https://www.tagesspiegel.de/gesellschaft/panorama/suche-nach-zweitem-objekt-an-flughafen-leipzighalle-lauft-weiter-mitarbeiter-holte-sprengstoff-drohne-mit-fusstritt-aus-der-luft-15914691.html" target="_blank" rel="noopener noreferrer">Tagesspiegel｜員工以腳踢落無人機、續搜第二個物件</a> · <a href="https://www.t-online.de/nachrichten/deutschland/innenpolitik/id_101376382/leipzig-busfahrer-soll-drohne-mit-fusstritt-gestoppt-haben.html" target="_blank" rel="noopener noreferrer">t-online｜聯邦檢察總長接手、Dobrindt 稱混合攻擊情境</a> · <a href="https://www.t-online.de/nachrichten/deutschland/id_101378890/flughafen-leipzig-halle-neue-details-zur-technik-der-sprengstoff-drohne.html" target="_blank" rel="noopener noreferrer">t-online｜炸藥無人機的技術細節</a> · <a href="https://de.euronews.com/my-europe/2026/08/07/sprengstoff-in-konservendose-neue-details-zum-drohnen-vorfall-in-leipzig" target="_blank" rel="noopener noreferrer">Euronews｜罐頭裝 Semtex 的新細節</a></p>
 
 <img src="/assets/images/2026/weekly/W32_圖卡2_萊茵河水位新低.png" alt="萊茵河考布 Kaub 水位 19 公分 破紀錄新低 科隆 67 公分 內河航運 BASF 化工 IW 成長減損 0.4 個百分點">
 <h3>熱浪曬乾萊茵河：水位跌破歷史新低，航運剩五分之一載重</h3>
-<p><strong>先講因果：河水不是自己消失的。</strong>德國氣象局（DWD）7 月 30 日發布的月度總結顯示，<strong>2026 年七月全國均溫 19.7 度，比 1961–1990 年的國際基準期高出 2.8 度</strong>，且是<strong>連續第五個月日照時數高於平均</strong>（約 272 小時）。真正的關鍵在雨——<strong>七月全國降水僅約每平方公尺 40 公升，只比基準期（78 公升）的一半多一些</strong>；若對照更近期也更濕潤的 1991–2020 年基準（87 公升），缺口更為懸殊。溫度、降水與日照都呈現明顯的「西南－東北」梯度，西南部特別炎熱、乾燥且日照充足，<strong>薩爾蘭（Saarland）以約 350 小時日照創下當地有紀錄以來新高</strong>。長期少雨的結果是土壤含水量被抽乾——<strong>到七月初，乾旱已擴及幾乎全德、且深入地下 1.8 公尺的整個土壤剖面</strong>，這代表就算現在下雨，也得先「還債」給土壤，河川補水會嚴重滯後。DWD 在七月的總結中已明白記錄：<strong>萊茵河與多瑙河的水位測站出現七月份的歷史低點</strong>。八月的情況只有更糟。<strong>位於萊茵蘭-普法茲（Rheinland-Pfalz）羅蕾萊（Loreley）附近的考布（Kaub）測站，水位一路跌到僅剩 19 公分</strong>——本週稍早的 24 公分就已<strong>比 2018 年 10 月 22 日開始統計以來的最低紀錄再低 1 公分</strong>，而<strong>兩週前這裡的水位還在 50 公分以上</strong>，惡化速度驚人；聯邦水道管理機關的預報甚至指向<strong>週六可能再降到 17 公分</strong>。同一時間，<strong>科隆（Köln）8 月 1 日以 67 公分刷新站史新低，比 2018 年的紀錄低 2 公分</strong>。<strong>為什麼考布特別關鍵</strong>：該處是萊茵河的狹窄瓶頸段，水深直接決定整條航道的可通行載重；萊茵蘭-普法茲工商會（IHK）指出，<strong>水位低於 40 公分時「有意義的內河航運幾乎不可能」</strong>。目前<strong>貨船常常只能裝到滿載的五分之一至三分之一</strong>，等於同樣的運量要多跑好幾趟，物流成本大幅墊高。<strong>誰最痛</strong>：化工業。石腦油（Naphtha）、基礎化學品與工業原料大量倚賴河運直送廠區，<strong>BASF、Evonik、Covestro 的主力廠都直接坐落在萊茵河畔</strong>；以 BASF 為例，<strong>約四成產品透過這條水路進出</strong>，公司已加派吃水較淺的低水位船因應，Lanxess 則把部分運輸轉向鐵路與公路。<strong>政府端的應對</strong>：交通部長 Bilger 正考慮<strong>暫時鬆綁卡車的週日與假日禁行令</strong>，把水路的量能挪到公路以緩解供應缺口。<strong>總體衝擊有多大</strong>：德國經濟研究所（IW）經濟學家形容情勢「dramatisch（嚴峻）」，並估算<strong>萊茵河若長時間受限，恐讓全年經濟成長減少最多 0.4 個百分點</strong>——這幾乎會吃掉市場目前預期的整個復甦幅度（對照上週 Commerzbank 才把 2026 全年成長預測自 0.6% 上調至 1.0%）。<strong>對在德讀者的實質意義</strong>：河運吃緊會沿著供應鏈往下傳導，<strong>燃油、建材與部分民生用品的運費看漲</strong>；若近期有加油、囤暖氣油或裝修採購的規劃，提前處理比等待降價務實。此外持續乾旱也讓部分地方政府開始限制取水與戶外用水，外出郊遊請留意各邦的森林火災警戒等級。</p>
-<p class="post-sources">📚 來源：<a href="https://www.dwd.de/DE/presse/pressemitteilungen/DE/2026/20260730_deutschlandwetter_juli_news.html" target="_blank" rel="noopener noreferrer">DWD｜2026 年七月德國天氣總結</a> · <a href="https://www.nr-kurier.de/artikel/174108-rhein-verliert-wasser---pegel-kaub-meldet-nur-19-zentimeter" target="_blank" rel="noopener noreferrer">NR-Kurier｜考布水位僅 19 公分</a> · <a href="https://de.marketscreener.com/boerse-nachrichten/rhein-pegel-bei-kaub-auf-rekordtief-von-24-zentimetern-ce7f50dedb8af22c" target="_blank" rel="noopener noreferrer">MarketScreener｜考布跌破 2018 年紀錄</a> · <a href="https://www.wiwo.de/unternehmen/folgen-fuer-die-wirtschaft-niedrigwasser-am-rhein-iw-oekonom-haelt-lage-fuer-dramatisch/100245401.html" target="_blank" rel="noopener noreferrer">WirtschaftsWoche｜IW 經濟學家：情勢嚴峻，成長恐減 0.4 個百分點</a> · <a href="https://www.k-zeitung.de/niedrigwasser-deutschland-chemie-kunststoffindustrie" target="_blank" rel="noopener noreferrer">K-Zeitung｜低水位成化工與塑膠業風險</a></p>
+<p><strong>先講因果：河水不是自己消失的。</strong>德國氣象局（DWD）7 月 30 日發布的月度總結顯示，<strong>2026 年七月全國均溫 19.7 度，比 1961–1990 年的國際基準期高出 2.8 度</strong>，且是<strong>連續第五個月日照時數高於平均</strong>（約 272 小時）。真正的關鍵在雨——<strong>七月全國降水僅約每平方公尺 40 公升，只比基準期（78 公升）的一半多一些</strong>；若對照更近期也更濕潤的 1991–2020 年基準（87 公升），缺口更為懸殊。溫度、降水與日照都呈現明顯的「西南－東北」梯度，西南部特別炎熱、乾燥且日照充足，<strong>薩爾蘭（Saarland）以約 350 小時日照創下當地有紀錄以來新高</strong>。長期少雨的結果是土壤含水量被抽乾——<strong>到七月初，乾旱已擴及幾乎全德、且深入地下 1.8 公尺的整個土壤剖面</strong>，這代表就算現在下雨，也得先「還債」給土壤，河川補水會嚴重滯後。DWD 在七月的總結中已明白記錄：<strong>萊茵河與多瑙河的水位測站出現七月份的歷史低點</strong>。八月的情況只有更糟。<strong>位於萊茵蘭-普法茲（Rheinland-Pfalz）羅蕾萊（Loreley）附近的考布（Kaub）測站，水位在週五（8/7）跌到僅剩 19 公分</strong>——甚至低於聯邦水道管理機關前一日預報的 18 公分。這條下跌曲線相當陡：<strong>週一（8/3）的 24 公分就已比 2018 年 10 月 22 日開始統計以來的最低紀錄再低 1 公分</strong>，週二（8/4）單日低點來到 21 公分，而<strong>兩週前這裡的水位還在 50 公分以上</strong>；預報指向<strong>週六可能再降到約 17 公分</strong>。考布自 1923 年起就是萊茵河流量的基準測站。同一時間，<strong>下游災情同樣改寫紀錄</strong>：科隆（Köln）在本週稍早先跌破 66 公分的舊紀錄，週四（8/6）測得 63 公分，<strong>週五（8/7）凌晨再降至 60 公分</strong>；杜塞道夫（Düsseldorf）跌到 <strong>15 公分</strong>、遠低於數日前才創下的 20 公分紀錄；<strong>埃默里希（Emmerich）的水位已連日處於負值，測站浮筒乾擱在河床上、只能靠探針取得數據</strong>，杜易斯堡（Duisburg）與埃默里希雙雙低於歷史紀錄——換句話說，<strong>從科隆一路到荷蘭邊境的埃默里希，整段下萊茵河都在破紀錄</strong>。<strong>為什麼考布特別關鍵</strong>：該處是萊茵河的狹窄瓶頸段，水深直接決定整條航道的可通行載重；萊茵蘭-普法茲工商會（IHK）指出，<strong>水位低於 40 公分時「有意義的內河航運幾乎不可能」</strong>。目前<strong>貨船常常只能裝到滿載的五分之一至三分之一</strong>，等於同樣的運量要多跑好幾趟，物流成本大幅墊高。<strong>誰最痛</strong>：化工業。石腦油（Naphtha）、基礎化學品與工業原料大量倚賴河運直送廠區，<strong>BASF、Evonik、Covestro 的主力廠都直接坐落在萊茵河畔</strong>；以 BASF 為例，<strong>約四成產品透過這條水路進出</strong>，公司已加派吃水較淺的低水位船因應，Lanxess 則把部分運輸轉向鐵路與公路。<strong>政府端的應對</strong>：交通部長 Bilger 正考慮<strong>暫時鬆綁卡車的週日與假日禁行令</strong>，把水路的量能挪到公路以緩解供應缺口。<strong>總體衝擊有多大</strong>：德國經濟研究所（IW）經濟學家形容情勢「dramatisch（嚴峻）」，並估算<strong>萊茵河若長時間受限，恐讓全年經濟成長減少最多 0.4 個百分點</strong>——這幾乎會吃掉市場目前預期的整個復甦幅度（對照上週 Commerzbank 才把 2026 全年成長預測自 0.6% 上調至 1.0%）。<strong>對在德讀者的實質意義</strong>：河運吃緊會沿著供應鏈往下傳導，<strong>燃油、建材與部分民生用品的運費看漲</strong>；若近期有加油、囤暖氣油或裝修採購的規劃，提前處理比等待降價務實。此外持續乾旱也讓部分地方政府開始限制取水與戶外用水，外出郊遊請留意各邦的森林火災警戒等級。</p>
+<p class="post-sources">📚 來源：<a href="https://www.dwd.de/DE/presse/pressemitteilungen/DE/2026/20260730_deutschlandwetter_juli_news.html" target="_blank" rel="noopener noreferrer">DWD｜2026 年七月德國天氣總結</a> · <a href="https://www.nr-kurier.de/artikel/174108-rhein-verliert-wasser---pegel-kaub-meldet-nur-19-zentimeter" target="_blank" rel="noopener noreferrer">NR-Kurier｜考布水位僅 19 公分</a> · <a href="https://de.marketscreener.com/boerse-nachrichten/rhein-pegel-bei-kaub-auf-rekordtief-von-24-zentimetern-ce7f50dedb8af22c" target="_blank" rel="noopener noreferrer">MarketScreener｜考布跌破 2018 年紀錄</a> · <a href="https://www.wiwo.de/unternehmen/folgen-fuer-die-wirtschaft-niedrigwasser-am-rhein-iw-oekonom-haelt-lage-fuer-dramatisch/100245401.html" target="_blank" rel="noopener noreferrer">WirtschaftsWoche｜IW 經濟學家：情勢嚴峻，成長恐減 0.4 個百分點</a> · <a href="https://www.k-zeitung.de/niedrigwasser-deutschland-chemie-kunststoffindustrie" target="_blank" rel="noopener noreferrer">K-Zeitung｜低水位成化工與塑膠業風險</a> · <a href="https://koeln.t-online.de/region/koeln/id_101378406/rhein-pegel-am-freitag-rekordtief-bei-koeln-viel-niedriger-als-prognose.html" target="_blank" rel="noopener noreferrer">t-online 科隆｜8/7 科隆水位跌至 60 公分</a> · <a href="https://www.daswetter.com/nachrichten/aktuelles/rhein-niedrigwasser-rekordtiefs-von-koeln-bis-emmerich.html" target="_blank" rel="noopener noreferrer">daswetter｜科隆到埃默里希全線破紀錄</a></p>
 
 <img src="/assets/images/2026/weekly/W32_圖卡3_高溫經濟衝擊.png" alt="高溫經濟衝擊 每個高溫日 4.31 億歐元 生產力下降 3% 每度 7.65 萬病假日 ASR A3.5 職場溫度規範">
 <h3>高溫的經濟帳：每個高溫日 4.31 億歐元，97% 來自生產力下滑</h3>
 <p>熱浪的代價不只寫在河床上。<strong>聯邦勞動及社會部（BMAS）委託研究機構 Prognos 進行的「氣候變遷下的勞動保護」研究</strong>，把「熱」換算成了具體的金額：<strong>一個氣溫達 30 度以上的高溫日，就讓德國經濟少掉約 4.31 億歐元</strong>，而且<strong>這些成本有 97% 來自生產力損失</strong>，而非設備或財產損害。<strong>降幅有多陡</strong>：研究指出<strong>氣溫每超過 30 度再上升 1 度，生產力就下降約 3%</strong>——這個斜率意味著 35 度的一天，效率折損遠不是「有點熱、大家慢一點」可以形容。<strong>健康成本另計</strong>：因中暑等熱相關疾病與高溫下的工安事故，<strong>每個高溫日估計額外產生約 7.65 萬個病假日</strong>。<strong>把時間拉長看</strong>：信用保險公司 Allianz Trade 的分析估計，<strong>2026 至 2030 年間德國因極端高溫累積的經濟損失可達約 1,310 億美元</strong>，未來四年 GDP 的折損幅度<strong>上看 3%</strong>。<strong>為什麼工業特別痛</strong>：高溫對製造業是「兩頭夾擊」——一頭是產線本身，車間降溫需求推升電力與冷卻成本、機具與人員效率同步下滑；另一頭正是上一則講的乾旱，河運受阻讓原料進不來、成品出不去。<strong>換句話說，本週萊茵河的新聞與工業訂單的新聞，其實是同一個氣候問題的兩個切面。</strong>對照本週稍早公布、扣除大單後轉負的六月訂單數據，德國工業今年面對的並不只是需求端的疲弱。<strong>勞權面：德國沒有法定「高溫假」</strong>——這是每年夏天最常被誤解的一點。德國法律並未賦予勞工因高溫而放假的權利，<strong>但雇主有明確的作為義務</strong>：依《職場規則》ASR A3.5，<strong>室溫超過 26 度時雇主「應」採取措施、超過 30 度時「必須」採取有效措施（如遮陽、調整工時、提供飲水、放寬服裝規定）、超過 35 度時該空間在無額外降溫措施下即「不得作為工作場所」</strong>。在德工作的讀者若辦公或作業環境長時間逾 30 度而雇主毫無作為，可先向主管或員工代表會（Betriebsrat）反映，必要時可向邦級勞動保護主管機關（Gewerbeaufsicht／Amt für Arbeitsschutz）申訴。</p>
 <p class="post-sources">📚 來源：<a href="https://www.dwd.de/DE/presse/pressemitteilungen/DE/2026/20260730_deutschlandwetter_juli_news.html" target="_blank" rel="noopener noreferrer">DWD｜2026 年七月德國天氣總結</a> · <a href="https://www.prognos.com/de/projekt/arbeitsschutz-klimawandel-hitze-wirtschaft" target="_blank" rel="noopener noreferrer">Prognos｜氣候變遷下的勞動保護（BMAS 委託）</a> · <a href="https://www.cleanthinking.de/hitzekosten-arbeit-prognos-studie-2026/" target="_blank" rel="noopener noreferrer">Cleanthinking｜高溫成本每日 4.31 億歐元</a> · <a href="https://www.allianz-trade.de/presse/pressemitteilungen/extreme-hitze-kostet-deutschland-milliarden-und-laehmt-wirtschaftswachstum.html" target="_blank" rel="noopener noreferrer">Allianz Trade｜極端高溫的數十億損失</a> · <a href="https://www.zdfheute.de/wirtschaft/hitzewelle-hitze-deutschland-wirtschaft-folgen-100.html" target="_blank" rel="noopener noreferrer">ZDFheute｜熱浪為何讓企業損失數十億</a> · <a href="https://www.baua.de/DE/Angebote/Regelwerk/ASR/pdf/ASR-A3-5.pdf?__blob=publicationFile" target="_blank" rel="noopener noreferrer">BAuA｜ASR A3.5 室內溫度規則（PDF）</a></p>
 
-<img src="/assets/images/2026/weekly/W32_圖卡4_九月三場邦選舉.png" alt="2026 九月三場邦選舉 薩克森-安哈特 9/6 AfD 41% 柏林 梅克倫堡-前波美拉尼亞 9/20 民調 防火牆">
+<img src="/assets/images/2026/weekly/W32_圖卡4_九月三場邦選舉.png" alt="2026 九月三場邦選舉 薩克森-安哈特 9/6 AfD 41% 柏林 梅克倫堡-佛波門 9/20 民調 防火牆">
 <h3>九月三場邦選舉倒數一個月：AfD 在東部大幅領先，柏林四黨混戰</h3>
-<p>距離九月的邦議會選舉剩下約一個月，三場選舉的態勢已相當清楚。<strong>薩克森-安哈特（Sachsen-Anhalt）9 月 6 日投票</strong>，是三場中最早、也是差距最懸殊的一場：INSA 為《Focus Online》所做的民調顯示，<strong>AfD 在頭號候選人 Ulrich Siegmund 帶領下拿到 41%、CDU 24%、左翼黨 13%、SPD 7%、綠黨 5%、BSW 4%</strong>，AfD 領先幅度<strong>超過 15 個百分點</strong>。值得一提的是，該邦執政 15 年的 CDU 籍邦總理 Reiner Haseloff 已於 2025 年夏天宣布不再參選，<strong>今年 1 月底提前交棒給黨內同志 Sven Schulze</strong>，Schulze 以 91% 的高票獲提名為頭號候選人，如今得在民調逆風中捍衛執政權。<strong>梅克倫堡-前波美拉尼亞（Mecklenburg-Vorpommern／MV）與柏林同於 9 月 20 日投票</strong>。MV 方面，Infratest dimap 為 NDR 所做的民調中<strong>AfD 36%、SPD（現任邦總理 Manuela Schwesig）29%、左翼黨 12%、CDU 僅 9%、綠黨 5% 在門檻邊緣掙扎</strong>；不過關鍵在席次算術——<strong>SPD、左翼黨與綠黨三黨若聯手，仍可能在新議會取得極其微弱的過半</strong>，也就是說 AfD 即使拿下第一大黨，未必能組閣。<strong>柏林則是完全開放的四黨混戰</strong>：Civey 為《Tagesspiegel》所做的最新民調顯示<strong>左翼黨 21%（較 7 月初再增 2 個百分點）、CDU 19%、AfD 18%（+1）、綠黨 17%、SPD 12%（-1）</strong>，FDP 與 BSW 各 3%、雙雙落在議會門檻之外。<strong>柏林 CDU 換將</strong>：現任市長 Kai Wegner 在今年 1 月柏林大停電期間，對外造成「曾多次與總理 Merz 通話」的印象，但總理府事後說明<strong>停電期間 Merz 並未與 Wegner 進行過任何當面或電話的個人談話</strong>，Wegner 因此以「柏林比任何個人都重要」為由退出頭號候選人之爭，改由現年 46 歲、4 月起出任財政參議員的 <strong>Stefan Evers</strong> 領軍並接任市黨部主席——但從民調看，<strong>換將並未替 CDU 帶來反彈，該黨仍停在 19%</strong>。<strong>觀察重點</strong>：這三場選舉將是對聯盟黨（CDU/CSU）與 AfD 之間「防火牆」（Brandmauer）最直接的壓力測試；一旦 AfD 在東部拿下第一大黨而各黨仍拒絕合作，組閣談判勢必冗長，也會回頭牽動 Merz 政府在秋季的施政能量與黨內對其領導的評價。</p>
-<p class="post-sources">📚 來源：<a href="https://de.euronews.com/my-europe/2026/08/06/landtagswahlen-2026-umfragen-afd-themen-ueberblick" target="_blank" rel="noopener noreferrer">Euronews｜三場邦選舉一個月前的總覽</a> · <a href="https://www.t-online.de/nachrichten/deutschland/innenpolitik/id_101371622/sachsen-anhalt-wahl-2026-wahlumfrage-zeigt-einen-trend-parteien-zittern.html" target="_blank" rel="noopener noreferrer">t-online｜薩克森-安哈特 INSA 民調</a> · <a href="https://www.t-online.de/nachrichten/deutschland/innenpolitik/id_101372134/mv-wahl-2026-wahlumfrage-zeigt-einen-klaren-trend-schwesigs-spd-bangt.html" target="_blank" rel="noopener noreferrer">t-online｜梅克倫堡-前波美拉尼亞民調</a> · <a href="https://www.tagesspiegel.de/berlin/umfrage-zur-berlin-wahl-linke-springt-auf-platz-eins--wegner-ruckzug-nutzt-cdu-nicht-15913067.html" target="_blank" rel="noopener noreferrer">Tagesspiegel｜柏林民調：左翼黨躍居第一</a> · <a href="https://www.cdulsa.de/artikel/sven-schulze-zum-spitzenkandidaten-der-cdu-sachsen-anhalt-gewaehlt" target="_blank" rel="noopener noreferrer">CDU Sachsen-Anhalt｜Schulze 獲選頭號候選人</a></p>
+<p>距離九月的邦議會選舉剩下約一個月，三場選舉的態勢已相當清楚。<strong>薩克森-安哈特（Sachsen-Anhalt）9 月 6 日投票</strong>，是三場中最早、也是差距最懸殊的一場：INSA 為《Focus Online》所做的民調顯示，<strong>AfD 在頭號候選人 Ulrich Siegmund 帶領下拿到 41%、CDU 24%、左翼黨 13%、SPD 7%、綠黨 5%、BSW 4%</strong>，AfD 領先幅度<strong>超過 15 個百分點</strong>。值得一提的是，該邦執政 15 年的 CDU 籍邦總理 Reiner Haseloff 已於 2025 年夏天宣布不再參選，<strong>今年 1 月底提前交棒給黨內同志 Sven Schulze</strong>，Schulze 以 91% 的高票獲提名為頭號候選人，如今得在民調逆風中捍衛執政權。<strong>梅克倫堡-佛波門（Mecklenburg-Vorpommern／MV）與柏林同於 9 月 20 日投票</strong>。MV 方面，Infratest dimap 為 NDR 所做的民調中<strong>AfD 36%、SPD（現任邦總理 Manuela Schwesig）29%、左翼黨 12%、CDU 僅 9%、綠黨 5% 在門檻邊緣掙扎</strong>；不過關鍵在席次算術——<strong>SPD、左翼黨與綠黨三黨若聯手，仍可能在新議會取得極其微弱的過半</strong>，也就是說 AfD 即使拿下第一大黨，未必能組閣。<strong>柏林則是完全開放的四黨混戰</strong>：Civey 為《Tagesspiegel》所做的最新民調顯示<strong>左翼黨 21%（較 7 月初再增 2 個百分點）、CDU 19%、AfD 18%（+1）、綠黨 17%、SPD 12%（-1）</strong>，FDP 與 BSW 各 3%、雙雙落在議會門檻之外。<strong>柏林 CDU 換將</strong>：現任市長 Kai Wegner 在今年 1 月柏林大停電期間，對外造成「曾多次與總理 Merz 通話」的印象，但總理府事後說明<strong>停電期間 Merz 並未與 Wegner 進行過任何當面或電話的個人談話</strong>，Wegner 因此以「柏林比任何個人都重要」為由退出頭號候選人之爭，改由現年 46 歲、4 月起出任財政參議員的 <strong>Stefan Evers</strong> 領軍並接任市黨部主席——但從民調看，<strong>換將並未替 CDU 帶來反彈，該黨仍停在 19%</strong>。<strong>觀察重點</strong>：這三場選舉將是對聯盟黨（CDU/CSU）與 AfD 之間「防火牆」（Brandmauer）最直接的壓力測試；一旦 AfD 在東部拿下第一大黨而各黨仍拒絕合作，組閣談判勢必冗長，也會回頭牽動 Merz 政府在秋季的施政能量與黨內對其領導的評價。</p>
+<p class="post-sources">📚 來源：<a href="https://de.euronews.com/my-europe/2026/08/06/landtagswahlen-2026-umfragen-afd-themen-ueberblick" target="_blank" rel="noopener noreferrer">Euronews｜三場邦選舉一個月前的總覽</a> · <a href="https://www.t-online.de/nachrichten/deutschland/innenpolitik/id_101371622/sachsen-anhalt-wahl-2026-wahlumfrage-zeigt-einen-trend-parteien-zittern.html" target="_blank" rel="noopener noreferrer">t-online｜薩克森-安哈特 INSA 民調</a> · <a href="https://www.t-online.de/nachrichten/deutschland/innenpolitik/id_101372134/mv-wahl-2026-wahlumfrage-zeigt-einen-klaren-trend-schwesigs-spd-bangt.html" target="_blank" rel="noopener noreferrer">t-online｜梅克倫堡-佛波門民調</a> · <a href="https://www.tagesspiegel.de/berlin/umfrage-zur-berlin-wahl-linke-springt-auf-platz-eins--wegner-ruckzug-nutzt-cdu-nicht-15913067.html" target="_blank" rel="noopener noreferrer">Tagesspiegel｜柏林民調：左翼黨躍居第一</a> · <a href="https://www.cdulsa.de/artikel/sven-schulze-zum-spitzenkandidaten-der-cdu-sachsen-anhalt-gewaehlt" target="_blank" rel="noopener noreferrer">CDU Sachsen-Anhalt｜Schulze 獲選頭號候選人</a></p>
 
 <img src="/assets/images/2026/weekly/W32_圖卡5_假Merz辭職影片.png" alt="假 Merz 8/10 辭職影片 深偽 假訊息 商報 Handelsblatt 出面澄清 偽造網頁 EU AI 標示義務">
 <h3>假「Merz 8/10 辭職」影片流竄：《商報》出面打假</h3>

diff --git a/scripts/cardgen/make_weekly_cards.py b/scripts/cardgen/make_weekly_cards.py
@@ -832,23 +832,23 @@ CARDS = [
   title='機場尋獲掛炸藥無人機',
   subtitle='萊比錫／哈勒機場 8/5 凌晨；聯邦檢察總長接手偵辦',
   stats=[('8/5 凌晨', '南跑道安全區尋獲'),
-         ('一度停飛', '航班運作全面中斷')],
+         ('Semtex', '藏在罐頭裡的軍用炸藥')],
   bullets=[
    ('發現經過', '機場員工 8/5 凌晨在南跑道安全區發現一架掛載爆裂裝置的無人機並將其擊落，聯邦警察出動拆彈機器人卸除引信。'),
-   ('升級偵辦', '落點鄰近一架停放的烏克蘭 Antonov AN-124 運輸機；案件已由聯邦檢察總長接手，聯邦刑事警察局（BKA）執行偵查。'),
-   ('混合戰疑慮', '內政部長 Dobrindt 稱這是「混合攻擊情境」，不排除外國勢力介入；德國近年關鍵基礎設施已多次傳出蓄意破壞。'),
+   ('裝置細節', '炸藥是填滿 Semtex 的市售罐頭、底部鑽孔裝引信，另有投擲機構與兩張 SIM 卡；未爆的唯一原因是引信失效。'),
+   ('偵測全失靈', '無人機為高專業度自製、以行動網路操控，機場頻率掃描器無法與手機區分——專家稱「偵測的最壞情況」。'),
   ],
-  takeaway=('安全提醒', '機場空域事件恐再現，出發前先查班機動態；目擊可疑無人機請撥 110，切勿自行接近或觸碰。'),
+  takeaway=('安全提醒', '聯邦檢察總長認定 8/4 晚間意圖引爆，Dobrindt 稱「混合攻擊情境」；目擊可疑無人機請撥 110，勿自行接近。'),
   file='W32_圖卡1_機場無人機炸彈.png'),
  dict(
   theme='#0D9488', badges=[('經濟', True), ('氣候', False)], illu='lowwater',
   title='熱浪曬乾萊茵河：水位破紀錄',
   subtitle='七月雨量不到基準六成；考布測站僅剩 19 公分',
-  stats=[('19 公分', '考布（Kaub）水位新低'),
+  stats=[('19 公分', '考布 8/7 水位新低'),
          ('40 公升', '七月雨量（基準 78 公升）')],
   bullets=[
    ('先看成因', '德國氣象局（DWD）：七月均溫 19.7 度、高於基準 2.8 度，雨量僅約 40 公升／平方公尺，乾旱深達 1.8 公尺土層。'),
-   ('河道見底', '萊茵蘭-普法茲（Rheinland-Pfalz）考布（Kaub）僅剩 19 公分、科隆 67 公分雙創新低；貨船只能裝五分之一。'),
+   ('河道見底', '萊茵蘭-普法茲（Rheinland-Pfalz）考布（Kaub）8/7 跌至 19 公分、科隆 60 公分；自科隆至埃默里希全線破紀錄。'),
    ('產業扛衝擊', 'BASF 約四成產品仰賴這條水路、已加派淺水船；交通部長 Bilger 考慮暫解卡車假日禁行令以疏運。'),
   ],
   takeaway=('影響評估', '德國經濟研究所（IW）估久旱恐吃掉全年成長最多 0.4 個百分點；燃油與建材運費看漲，加油宜提前。'),
@@ -874,7 +874,7 @@ CARDS = [
          ('3 場', '九月邦議會改選')],
   bullets=[
    ('東部領先明顯', '薩克森-安哈特（Sachsen-Anhalt）9/6 投票，INSA 民調 AfD 41%、CDU 24%、左翼黨 13%，領先逾 15 個百分點。'),
-   ('梅克倫堡-前波美拉尼亞（MV）', '9/20 投票，AfD 36%、SPD 29%、左翼黨 12%、CDU 僅 9%；SPD、左翼黨與綠黨聯手仍可能勉強過半。'),
+   ('梅克倫堡-佛波門（MV）', '9/20 投票，AfD 36%、SPD 29%、左翼黨 12%、CDU 僅 9%；SPD、左翼黨與綠黨聯手仍可能勉強過半。'),
    ('柏林四黨混戰', '柏林 9/20 改選：左翼黨 21%、CDU 19%、AfD 18%、綠黨 17%；Wegner 因停電說法不實退選，改由 Evers 領軍。'),
   ],
   takeaway=('政治觀察', '三場選舉將檢驗聯盟黨（CDU/CSU）對 AfD 的「防火牆」，結果也牽動 Merz 政府秋季的施政能量。'),

diff --git a/CLAUDE.md b/CLAUDE.md
@@ -161,6 +161,10 @@
 - **提及德國聯邦邦務必附德文**（全名或標準簡寫，擇一）：巴登-符騰堡（Baden-Württemberg／BW）、
   萊茵蘭-普法茲（Rheinland-Pfalz／RLP）、薩爾蘭（Saarland）、黑森（Hessen）、
   北威邦（Nordrhein-Westfalen／NRW）、巴伐利亞（Bayern）等；**勿用「巴符、萊普」這類自創簡稱**。
+- ⚠ **`Mecklenburg-Vorpommern` 的台灣譯名是「梅克倫堡-佛波門」（簡稱麥佛邦）**（用戶 2026/08 明確糾正）：
+  **嚴禁**寫成「前波美拉尼亞」或「西波美拉尼亞」——那是中國譯法（支語）。
+  邦名譯名以 zh-tw 維基與**駐德代表處《德國常用地名翻譯對照表》**為準，
+  遇到沒把握的邦名／地名先查證，別憑印象直譯德文字面。
 - **專業記者語氣、直述事實**：是技術故障就寫「系統故障」，**不要用「非罷工／不是…」這種多餘的否定式強調**。
 - **不重複老議題**：先比對前幾週（W12 起的 `assets/images/2026/weekly/`）已報過的題目，避免老調重彈
 - **冷僻地名 / 人名**：附上中譯與背景脈絡（例：Curaçao → 古拉索／加勒比小國）
